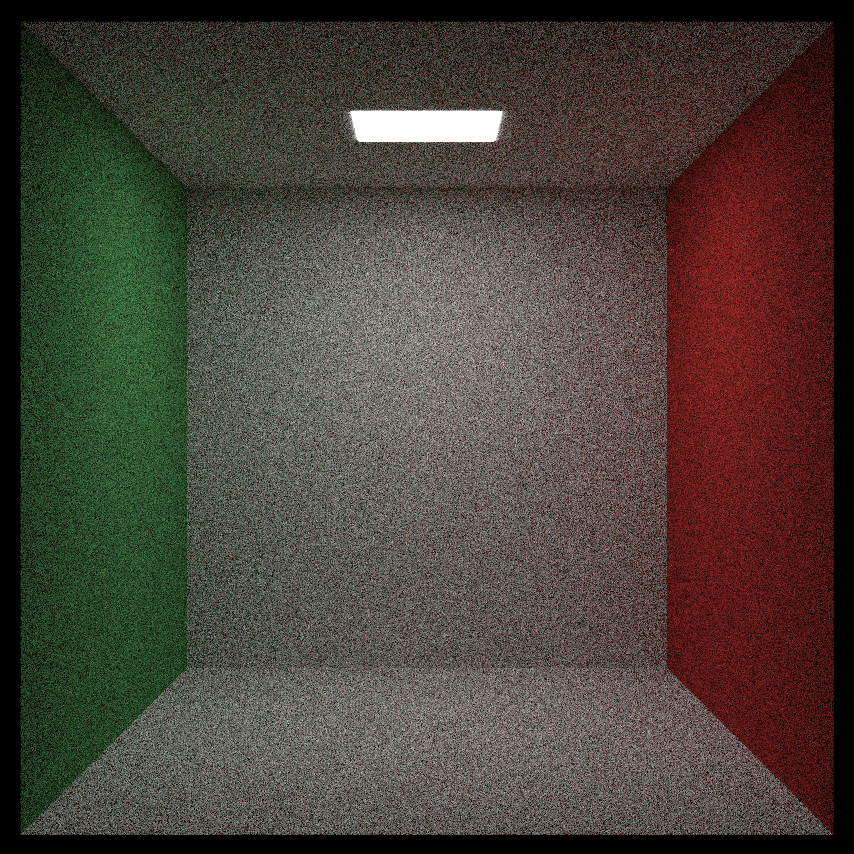
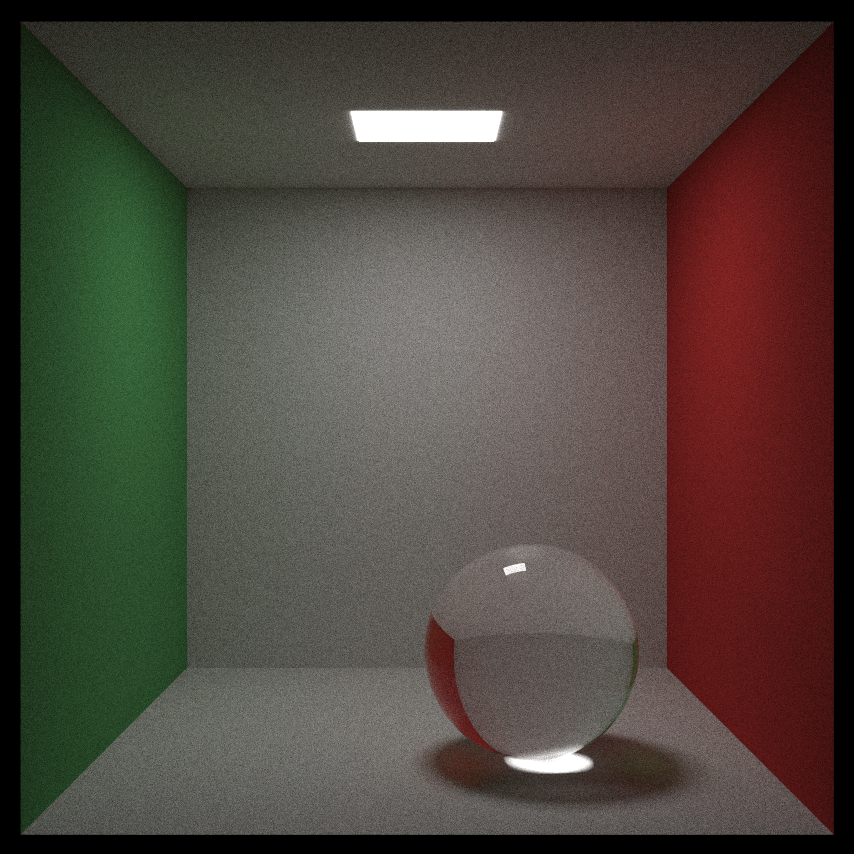
Add sphere to cornell box

diff --git a/src/scene.rs b/src/scene.rs
@@ -322,7 +322,7 @@ impl Scene for CornellBoxScene {
             image_settings: ImageSettings {
                 width: 854,
                 height: 854,
-                samples_per_pixel: 200,
+                samples_per_pixel: 2000,
                 max_bounces: 50,
                 background: Color::new(0.0, 0.0, 0.0),
             },
@@ -368,6 +368,7 @@ impl Scene for CornellBoxScene {
         let material_light = Arc::new(DiffuseLightMaterial::new_from_color(Color::new(
             15.0, 15.0, 15.0,
         )));
+        let material_glass = Arc::new(DielectricMaterial::new(1.5));
 
         world.push(Box::new(
             RectangleYZ::new(
@@ -419,6 +420,12 @@ impl Scene for CornellBoxScene {
             )
             .expect("rectangle definition is not axis aligned"),
         ));
+
+        world.push(Box::new(Sphere::new(
+            Vec3::new(190.0, 90.0, 190.0),
+            90.0,
+            material_glass,
+        )));
 
         BvhNode::new(world)
     }
